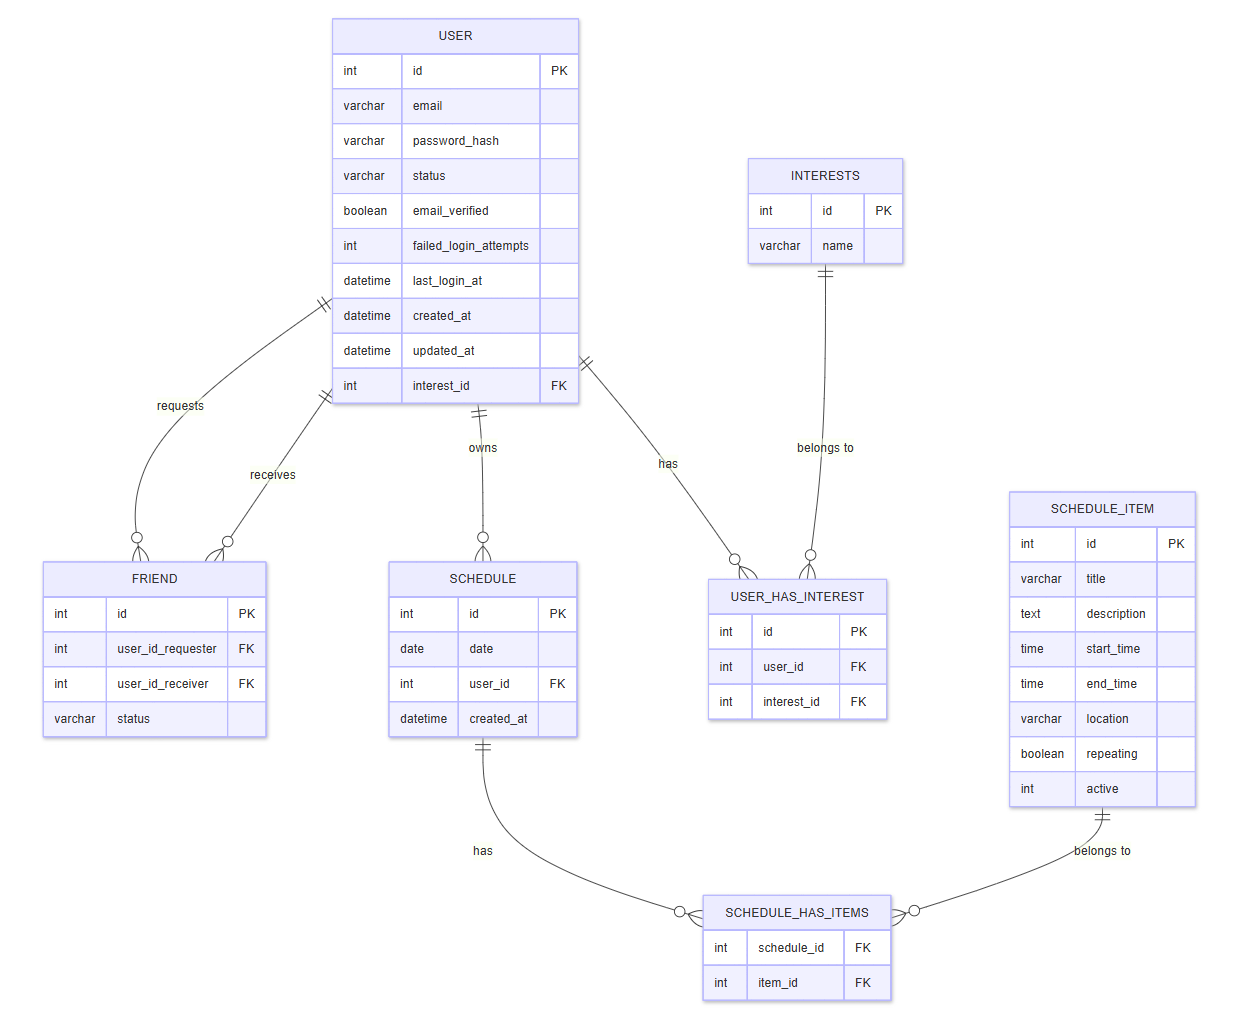
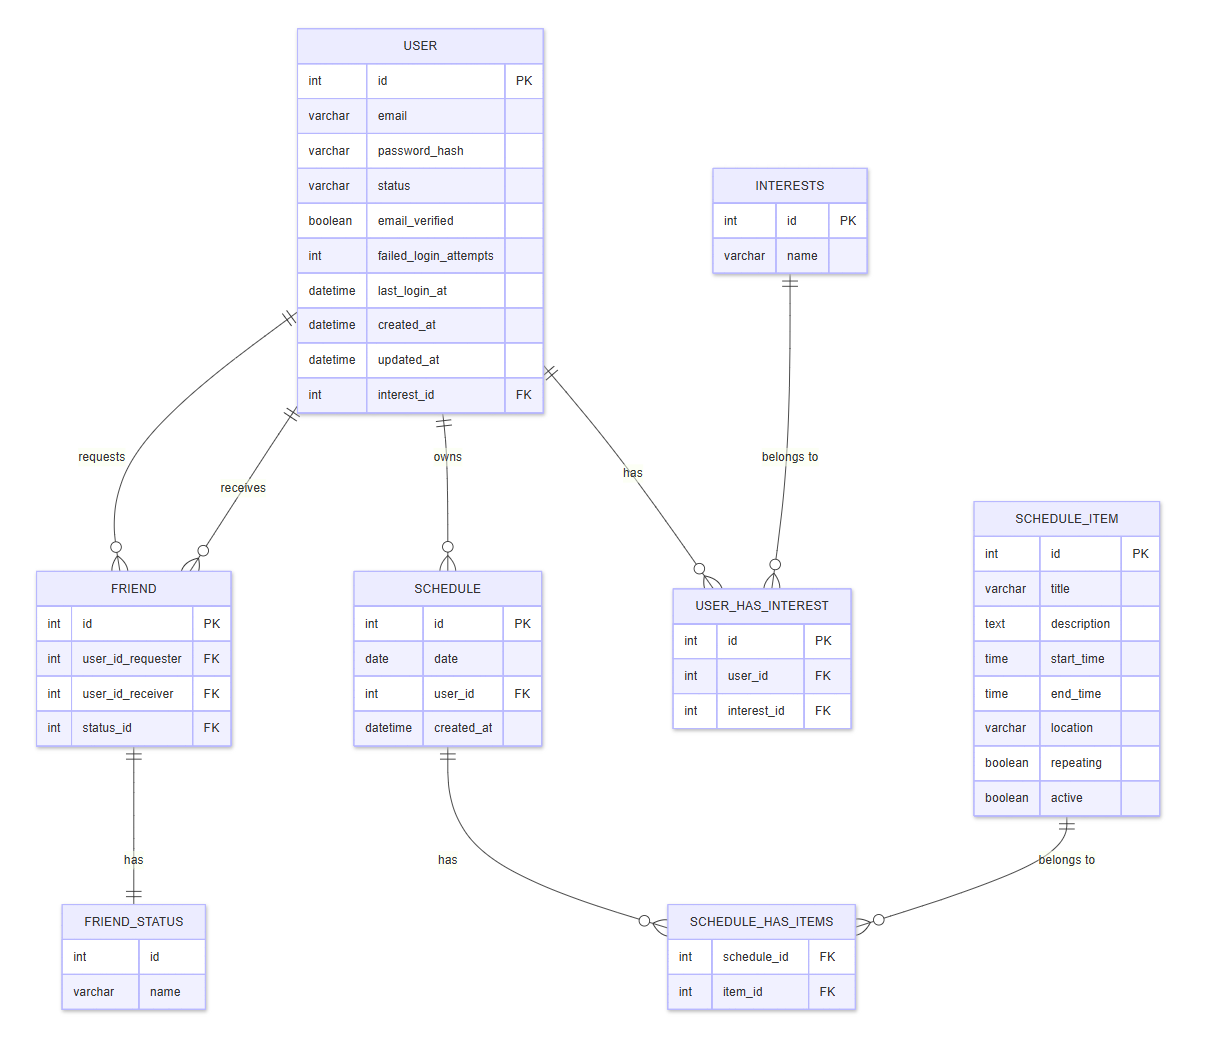
added all ORM models and repositories (also constants for status)

diff --git a/orm-stuff/model/ScheduleItem.java b/orm-stuff/model/ScheduleItem.java
@@ -1,0 +1,55 @@
+package com.rootsquare.planyourday.model;
+
+import java.time.LocalDate;
+import java.time.LocalDateTime;
+import jakarta.persistence.Column;
+import jakarta.persistence.Entity;
+import jakarta.persistence.GeneratedValue;
+import jakarta.persistence.GenerationType;
+import jakarta.persistence.Id;
+import jakarta.persistence.JoinColumn;
+import jakarta.persistence.ManyToOne;
+import jakarta.persistence.PrePersist;
+import jakarta.persistence.Table;
+import lombok.AllArgsConstructor;
+import lombok.Builder;
+import lombok.Data;
+import lombok.NoArgsConstructor;
+
+@Entity
+@Table(name = "SCHEDULE_ITEM")
+@Data
+@NoArgsConstructor
+@AllArgsConstructor
+@Builder
+public class ScheduleItem {
+
+    @Id
+    @GeneratedValue(strategy = GenerationType.IDENTITY)
+    private Integer id;
+
+    @Column(name = "title", nullable = false)
+    private String title;
+
+    @Column(name = "title", nullable = false)
+    private String title;
+
+    @Column(name = "start_time", nullable = false, updatable = false)
+    private LocalDateTime startTime;
+
+    @Column(name = "end_time", nullable = false, updatable = false)
+    private LocalDateTime endTime;
+
+    @Column(name = "location", nullable = false)
+    private String location;
+
+    @Column(name = "repeating", nullable = false)
+    private boolean repeating;
+
+    @Column(name = "active", nullable = false)
+    private boolean active;
+
+    @ManyToMany(mappedBy = "items")
+    private List<Schedule> schedules;
+
+}

diff --git a/orm-stuff/model/Schedule.java b/orm-stuff/model/Schedule.java
@@ -1,0 +1,53 @@
+package com.rootsquare.planyourday.model;
+
+import java.time.LocalDate;
+import java.time.LocalDateTime;
+import jakarta.persistence.Column;
+import jakarta.persistence.Entity;
+import jakarta.persistence.GeneratedValue;
+import jakarta.persistence.GenerationType;
+import jakarta.persistence.Id;
+import jakarta.persistence.JoinColumn;
+import jakarta.persistence.ManyToOne;
+import jakarta.persistence.PrePersist;
+import jakarta.persistence.Table;
+import lombok.AllArgsConstructor;
+import lombok.Builder;
+import lombok.Data;
+import lombok.NoArgsConstructor;
+
+@Entity
+@Table(name = "SCHEDULE")
+@Data
+@NoArgsConstructor
+@AllArgsConstructor
+@Builder
+public class Schedule {
+
+    @Id
+    @GeneratedValue(strategy = GenerationType.IDENTITY)
+    private Integer id;
+
+    @Column(name = "date", nullable = false)
+    private LocalDate date;
+
+    @ManyToOne
+    @JoinColumn(name = "user_id", nullable = false)
+    private User user;
+
+    @Column(name = "created_at", nullable = false, updatable = false)
+    private LocalDateTime createdAt;
+
+    @ManyToMany
+    @JoinTable(
+        name = "SCHEDULE_HAS_ITEMS",
+        joinColumns = @JoinColumn(name = "schedule_id"),
+        inverseJoinColumns = @JoinColumn(name = "item_id")
+    )
+    private List<ScheduleItem> items;
+
+    @PrePersist
+    protected void onCreate() {
+        this.createdAt = LocalDateTime.now();
+    }
+}

diff --git a/orm-stuff/model/Friend.java b/orm-stuff/model/Friend.java
@@ -1,0 +1,48 @@
+package com.rootsquare.planyourday.model;
+
+import com.rootsquare.planyourday.constants.Status;
+import java.time.LocalDateTime;
+import jakarta.persistence.Column;
+import jakarta.persistence.Entity;
+import jakarta.persistence.GeneratedValue;
+import jakarta.persistence.GenerationType;
+import jakarta.persistence.Id;
+import jakarta.persistence.JoinColumn;
+import jakarta.persistence.ManyToOne;
+import jakarta.persistence.PrePersist;
+import jakarta.persistence.Table;
+import lombok.AllArgsConstructor;
+import lombok.Builder;
+import lombok.Data;
+import lombok.NoArgsConstructor;
+
+@Entity
+@Table(name = "FRIEND")
+@Data
+@NoArgsConstructor
+@AllArgsConstructor
+@Builder
+public class Friend {
+
+    @Id
+    @GeneratedValue(strategy = GenerationType.IDENTITY)
+    private Integer id;
+
+    @ManyToOne
+    @JoinColumn(name = "user_id_requester", nullable = false)
+    private User userRequester;
+
+    @ManyToOne
+    @JoinColumn(name = "user_id_receiver", nullable = false)
+    private User userReceiver;
+
+    @Column(name = "status", nullable = false)
+    private String status;
+
+    @PrePersist
+    protected void onCreate() {
+        if (this.status == null) {
+            this.status = Status.ALL.get(0).name(); 
+        }
+    }
+}

diff --git a/orm-stuff/constants/Status.java b/orm-stuff/constants/Status.java
@@ -1,0 +1,16 @@
+package com.rootsquare.planyourday.constants;
+
+import java.util.List;
+
+public final class Status {
+
+    private Status() {}
+
+    public record State(String name) {}
+
+    public static final List<State> ALL = List.of(
+        new State("Pending"),
+        new State("Accepted"),
+        new State("Rejected")
+    );
+}

diff --git a/orm-stuff/repository/ScheduleItemRepository.java b/orm-stuff/repository/ScheduleItemRepository.java
@@ -1,0 +1,7 @@
+package com.rootsquare.planyourday.repository;
+
+import org.springframework.data.jpa.repository.JpaRepository;
+import com.rootsquare.planyourday.model.ScheduleItem;
+
+public interface ScheduleItemRepository extends JpaRepository<SheduleItem, Integer> {
+}

diff --git a/orm-stuff/repository/ScheduleRepository.java b/orm-stuff/repository/ScheduleRepository.java
@@ -1,0 +1,7 @@
+package com.rootsquare.planyourday.repository;
+
+import org.springframework.data.jpa.repository.JpaRepository;
+import com.rootsquare.planyourday.model.Schedule;
+
+public interface ScheduleRepository extends JpaRepository<Schedule, Integer> {
+}

diff --git a/orm-stuff/repository/FriendRepository.java b/orm-stuff/repository/FriendRepository.java
@@ -1,0 +1,7 @@
+package com.rootsquare.planyourday.repository;
+
+import org.springframework.data.jpa.repository.JpaRepository;
+import com.rootsquare.planyourday.model.Friend;
+
+public interface FriendRepository extends JpaRepository<Friend, Integer> {
+}
